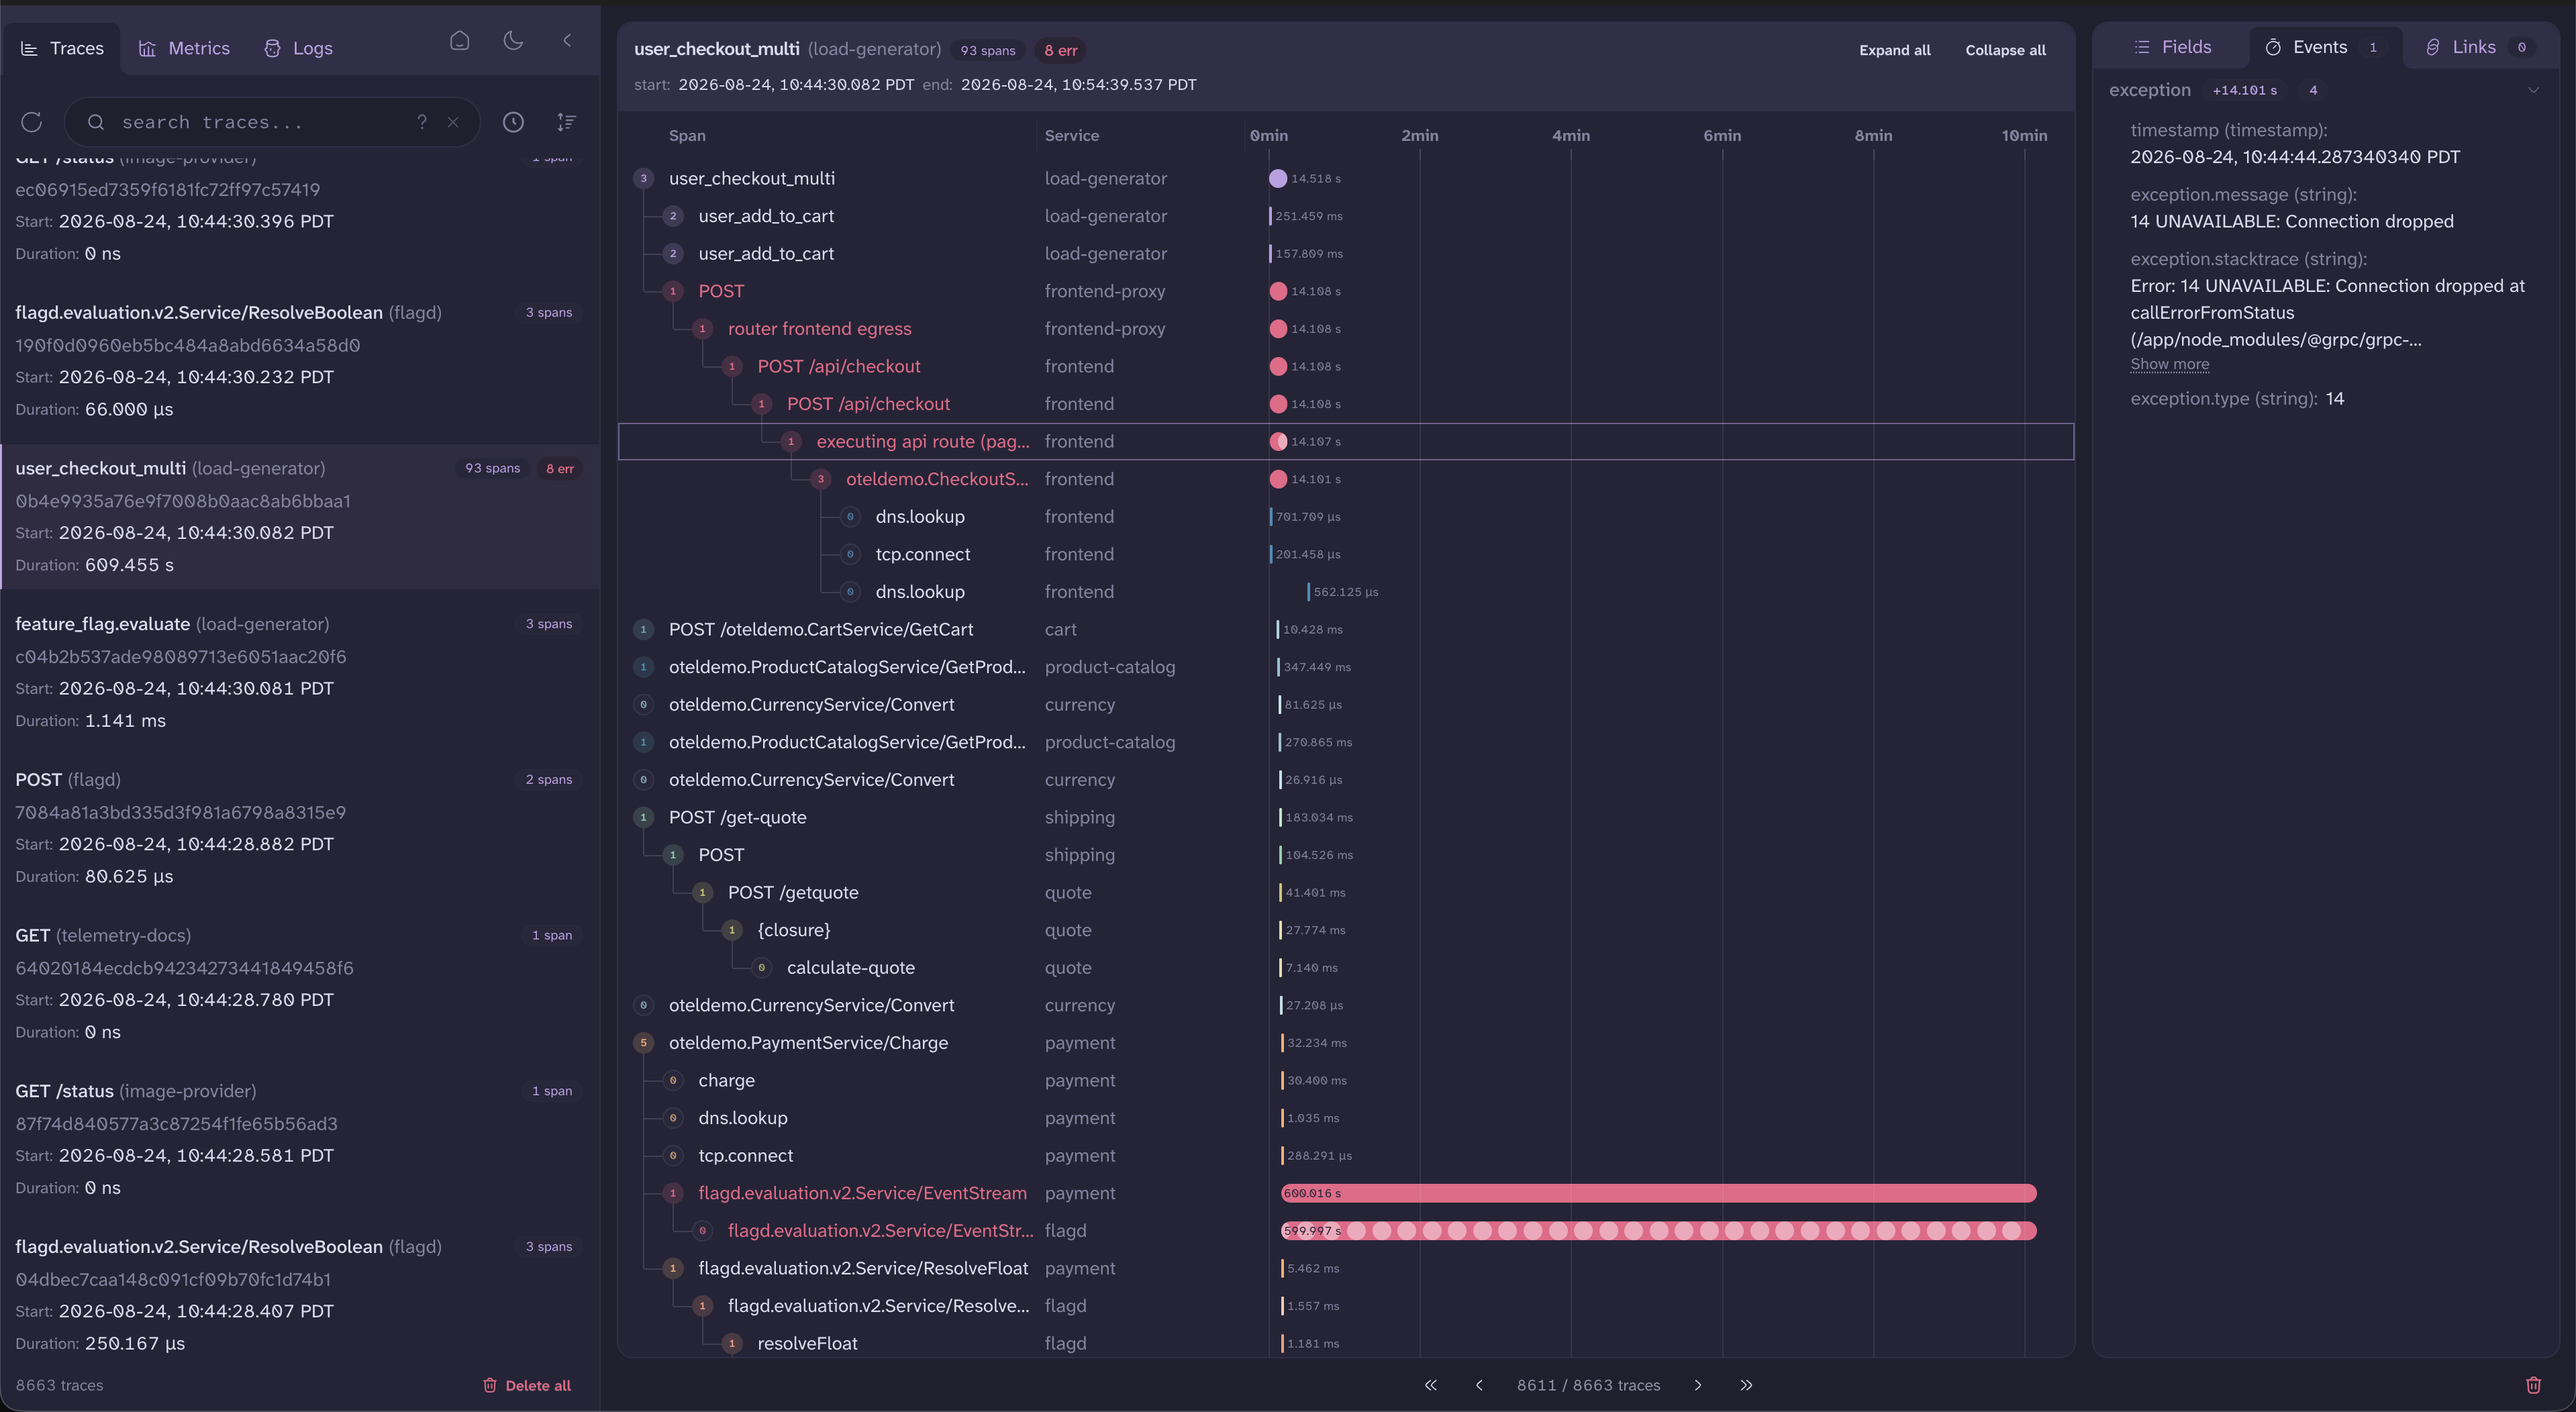
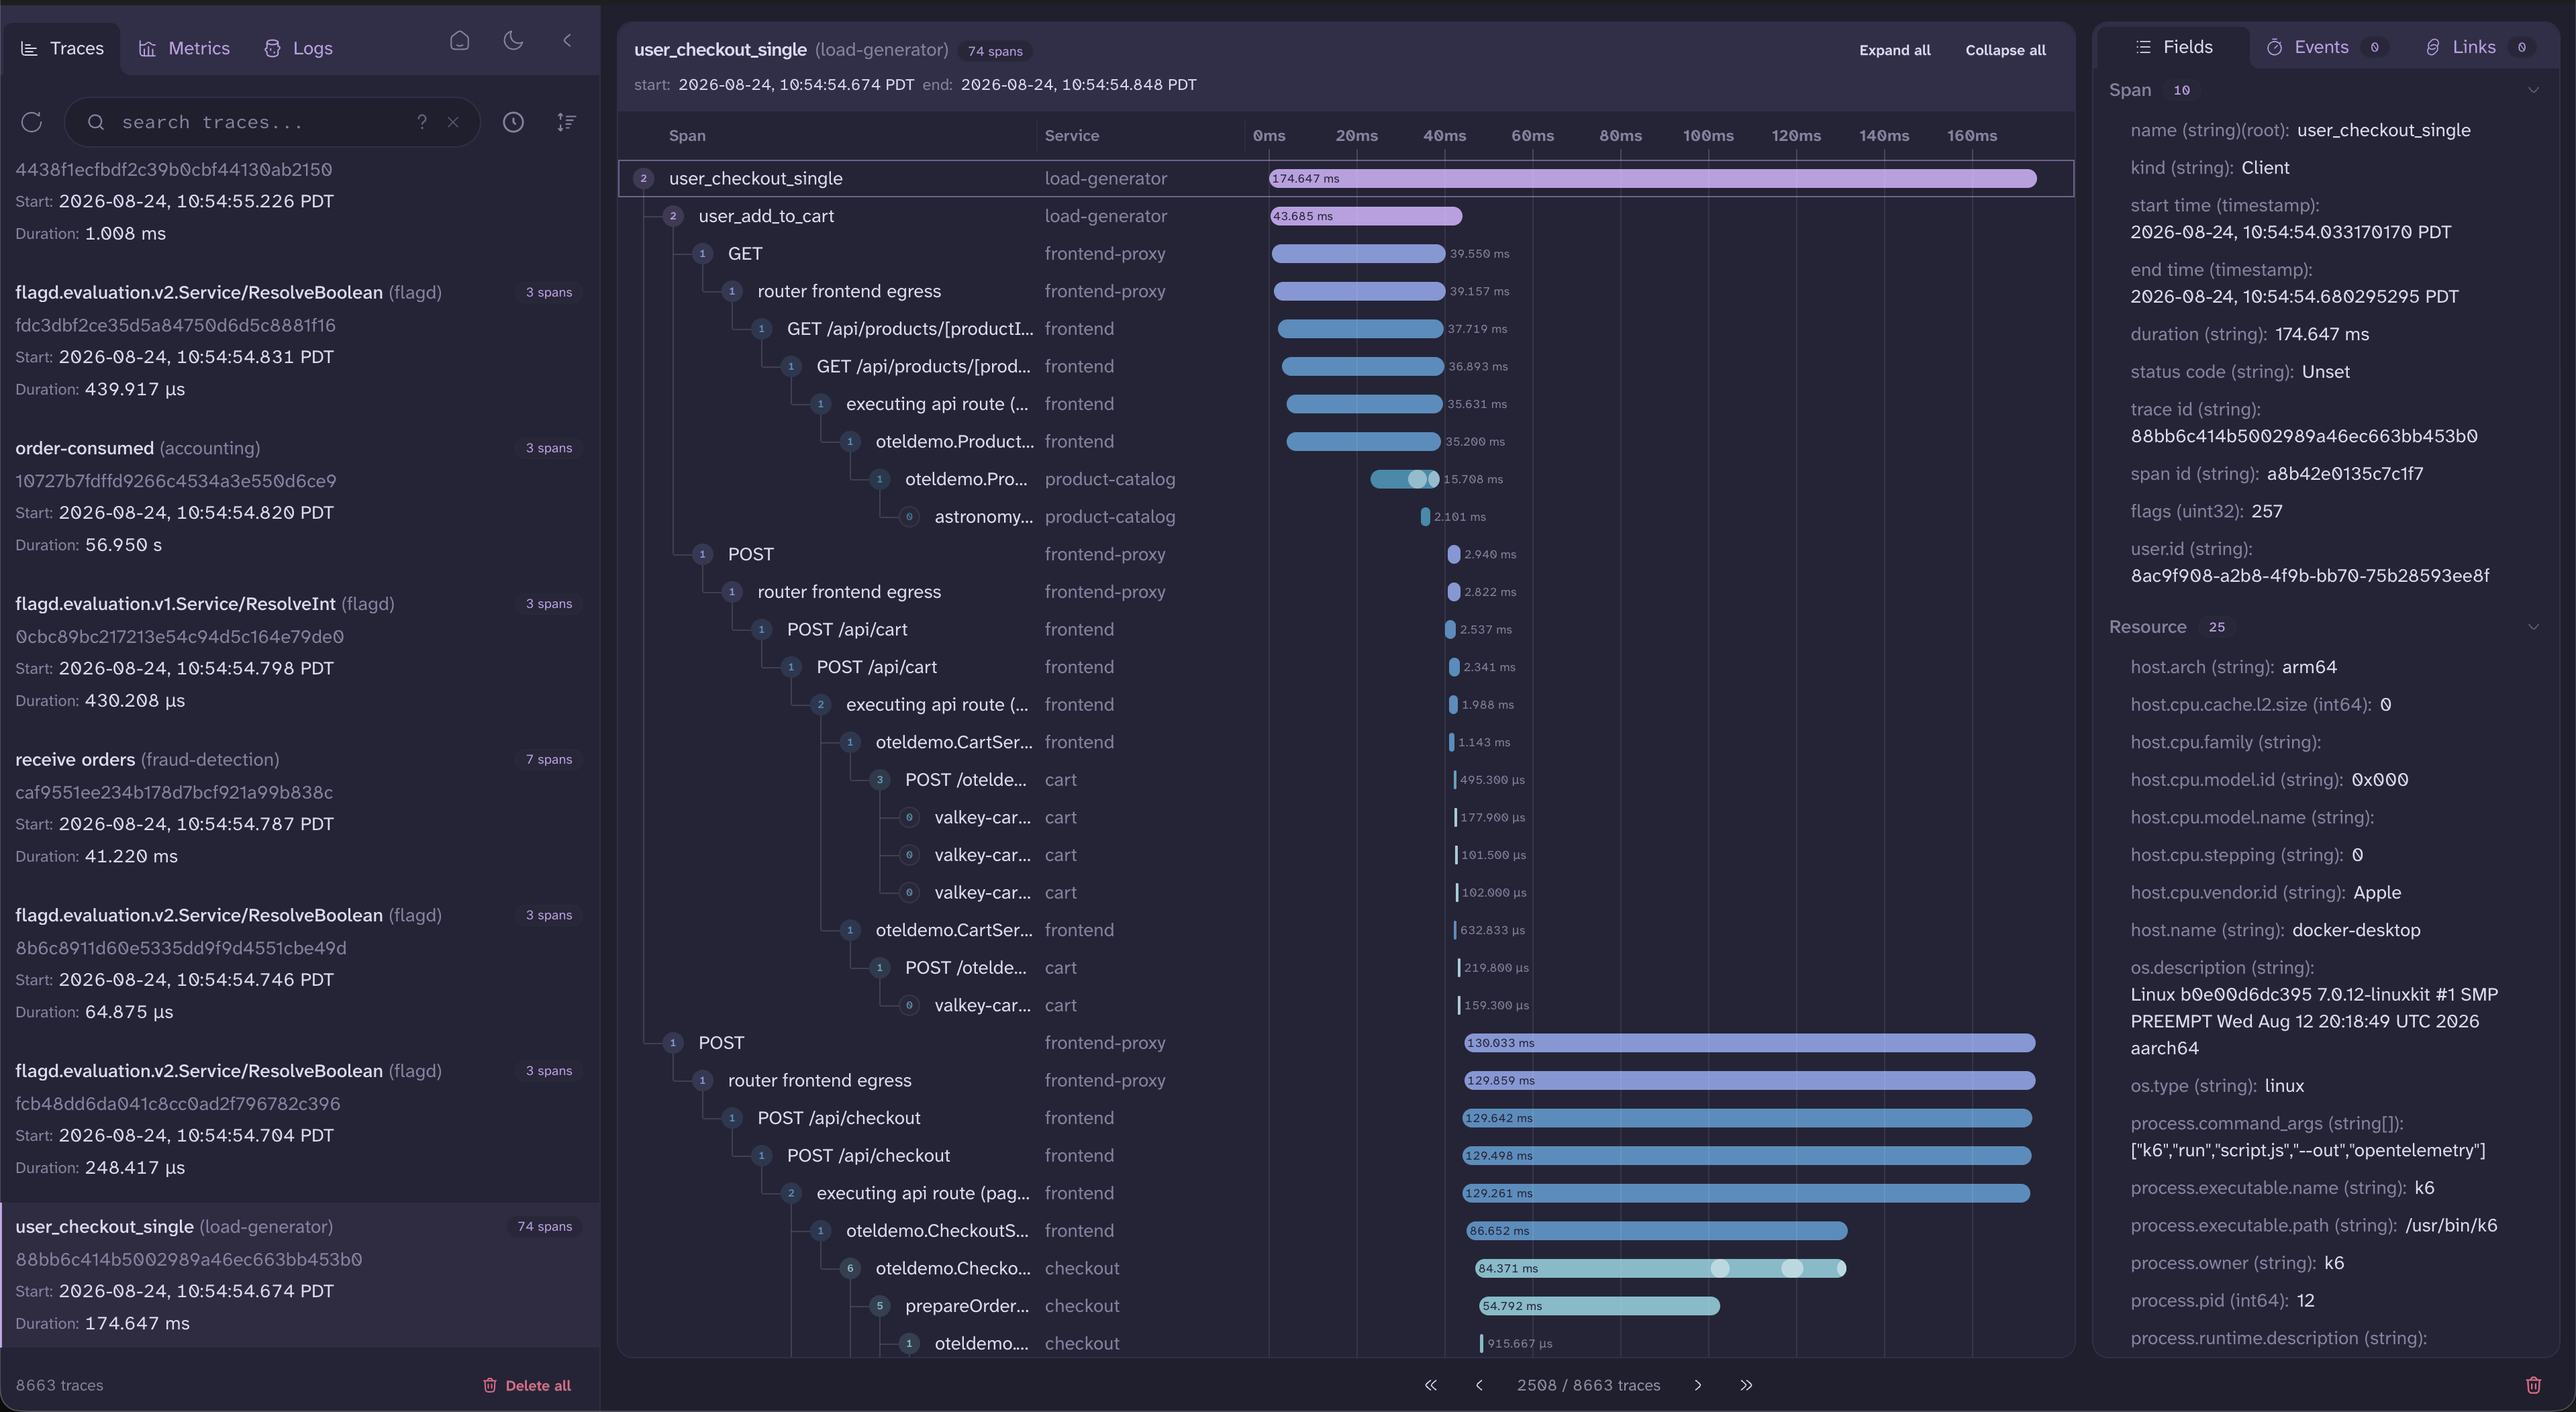
Swap the three-pane traces figure for a distinct 74-span checkout trace so it no longer duplicates the error shot

diff --git a/content/rebuilding-otel-desktop-viewer/index.md b/content/rebuilding-otel-desktop-viewer/index.md
@@ -72,9 +72,9 @@ name CONTAINS checkout
 
 ## Traces
 
-![The three-pane traces view: the trace list on the left with span and error count badges, a waterfall of coloured span bars in the middle with the failing spans in red, and the span detail pane on the right.](traces-three-pane.png)
+![The three-pane traces view: the trace list on the left with span count badges, a waterfall of coloured span bars in the middle, and the span detail pane on the right.](traces-three-pane.png)
 
-Traces open as a waterfall. The list is on the left, span details on the right, and the trace in these screenshots has 93 spans in it.
+Traces open as a waterfall. The list is on the left, span details on the right, and this checkout trace runs 74 spans across 12 services.
 
 Errors are designed to stand out.
 Span bars get a colour per service, and anything carrying an `Error` status or an exception event drops out of that rotation and takes the error colour instead.
